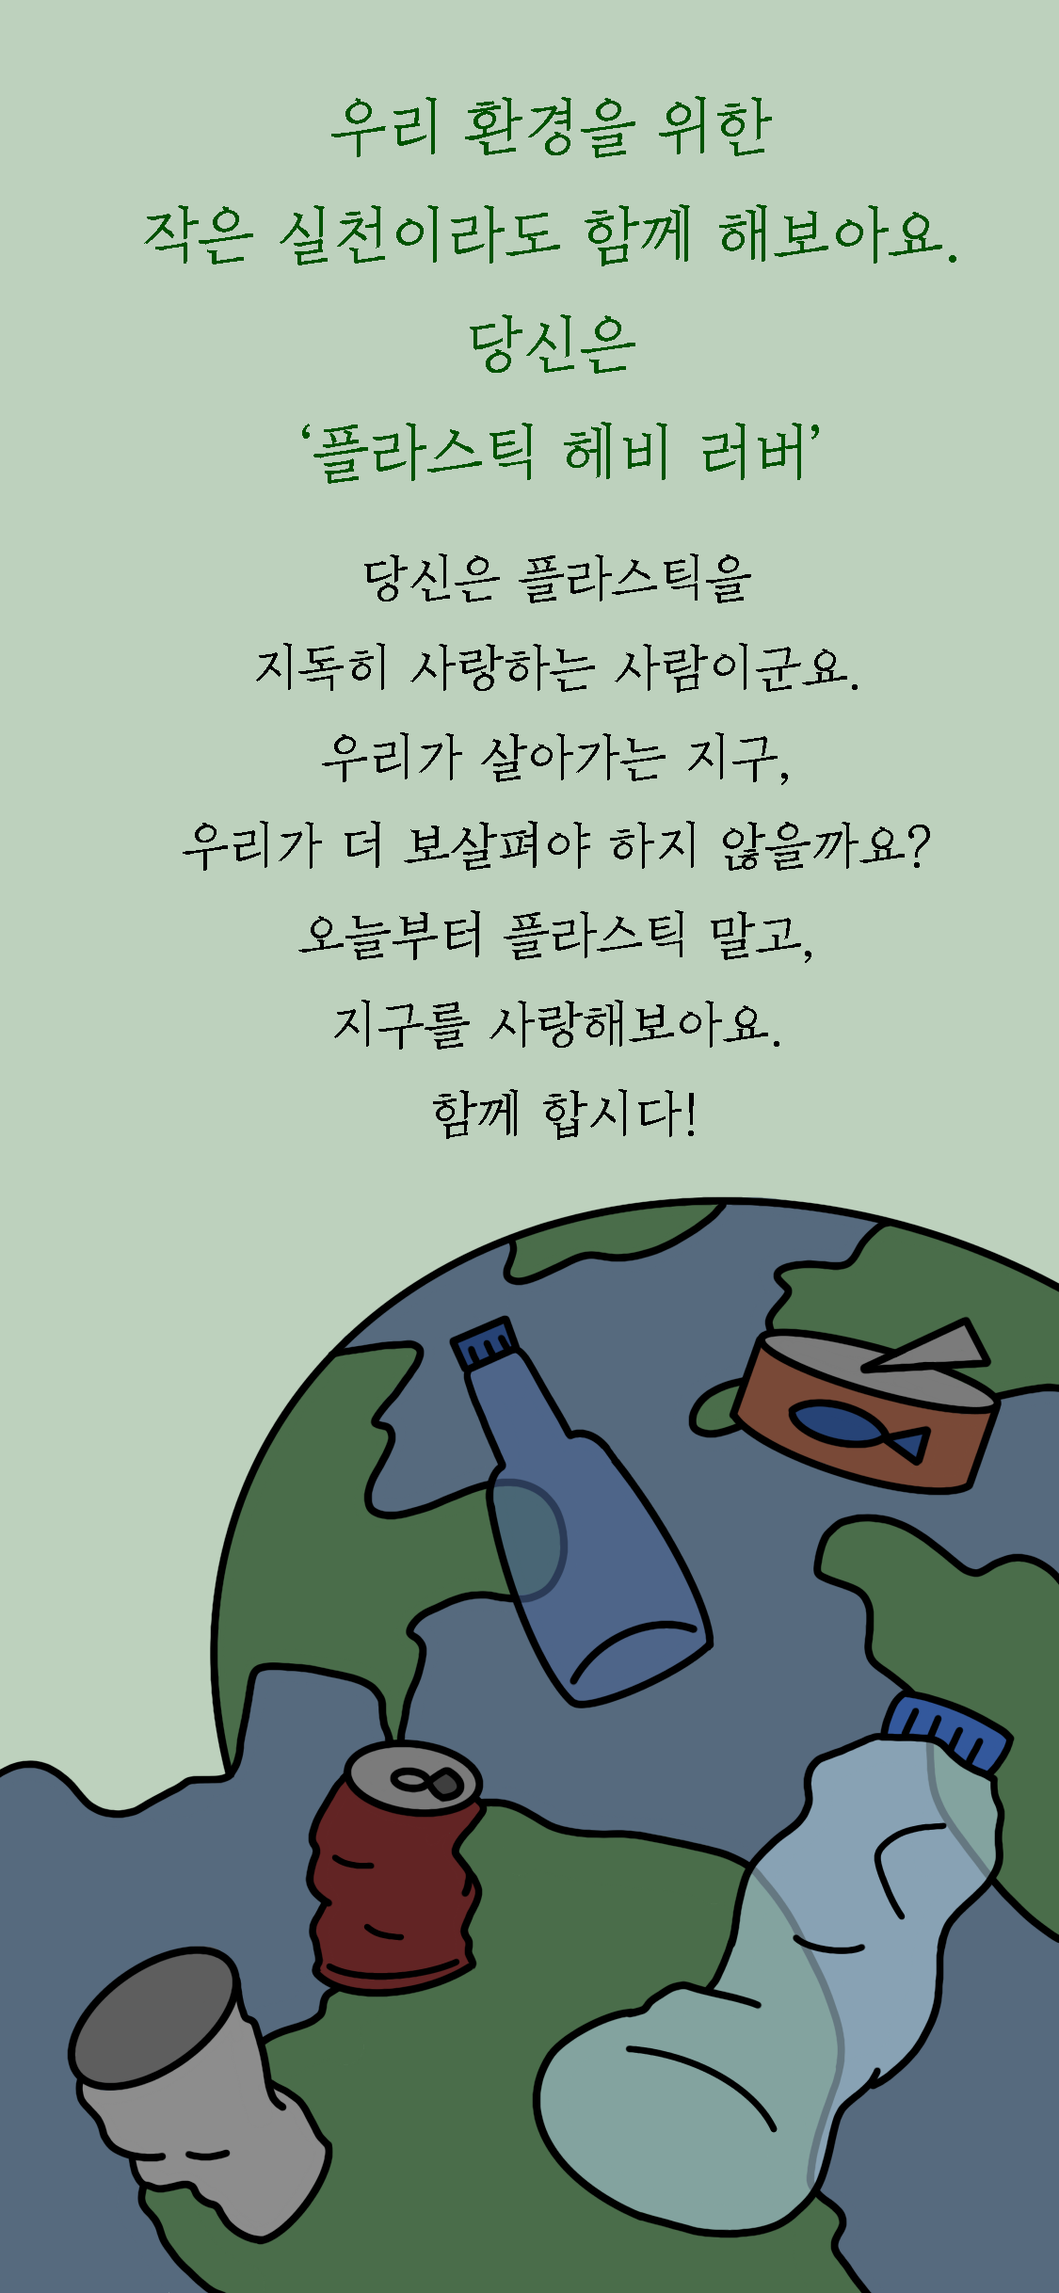
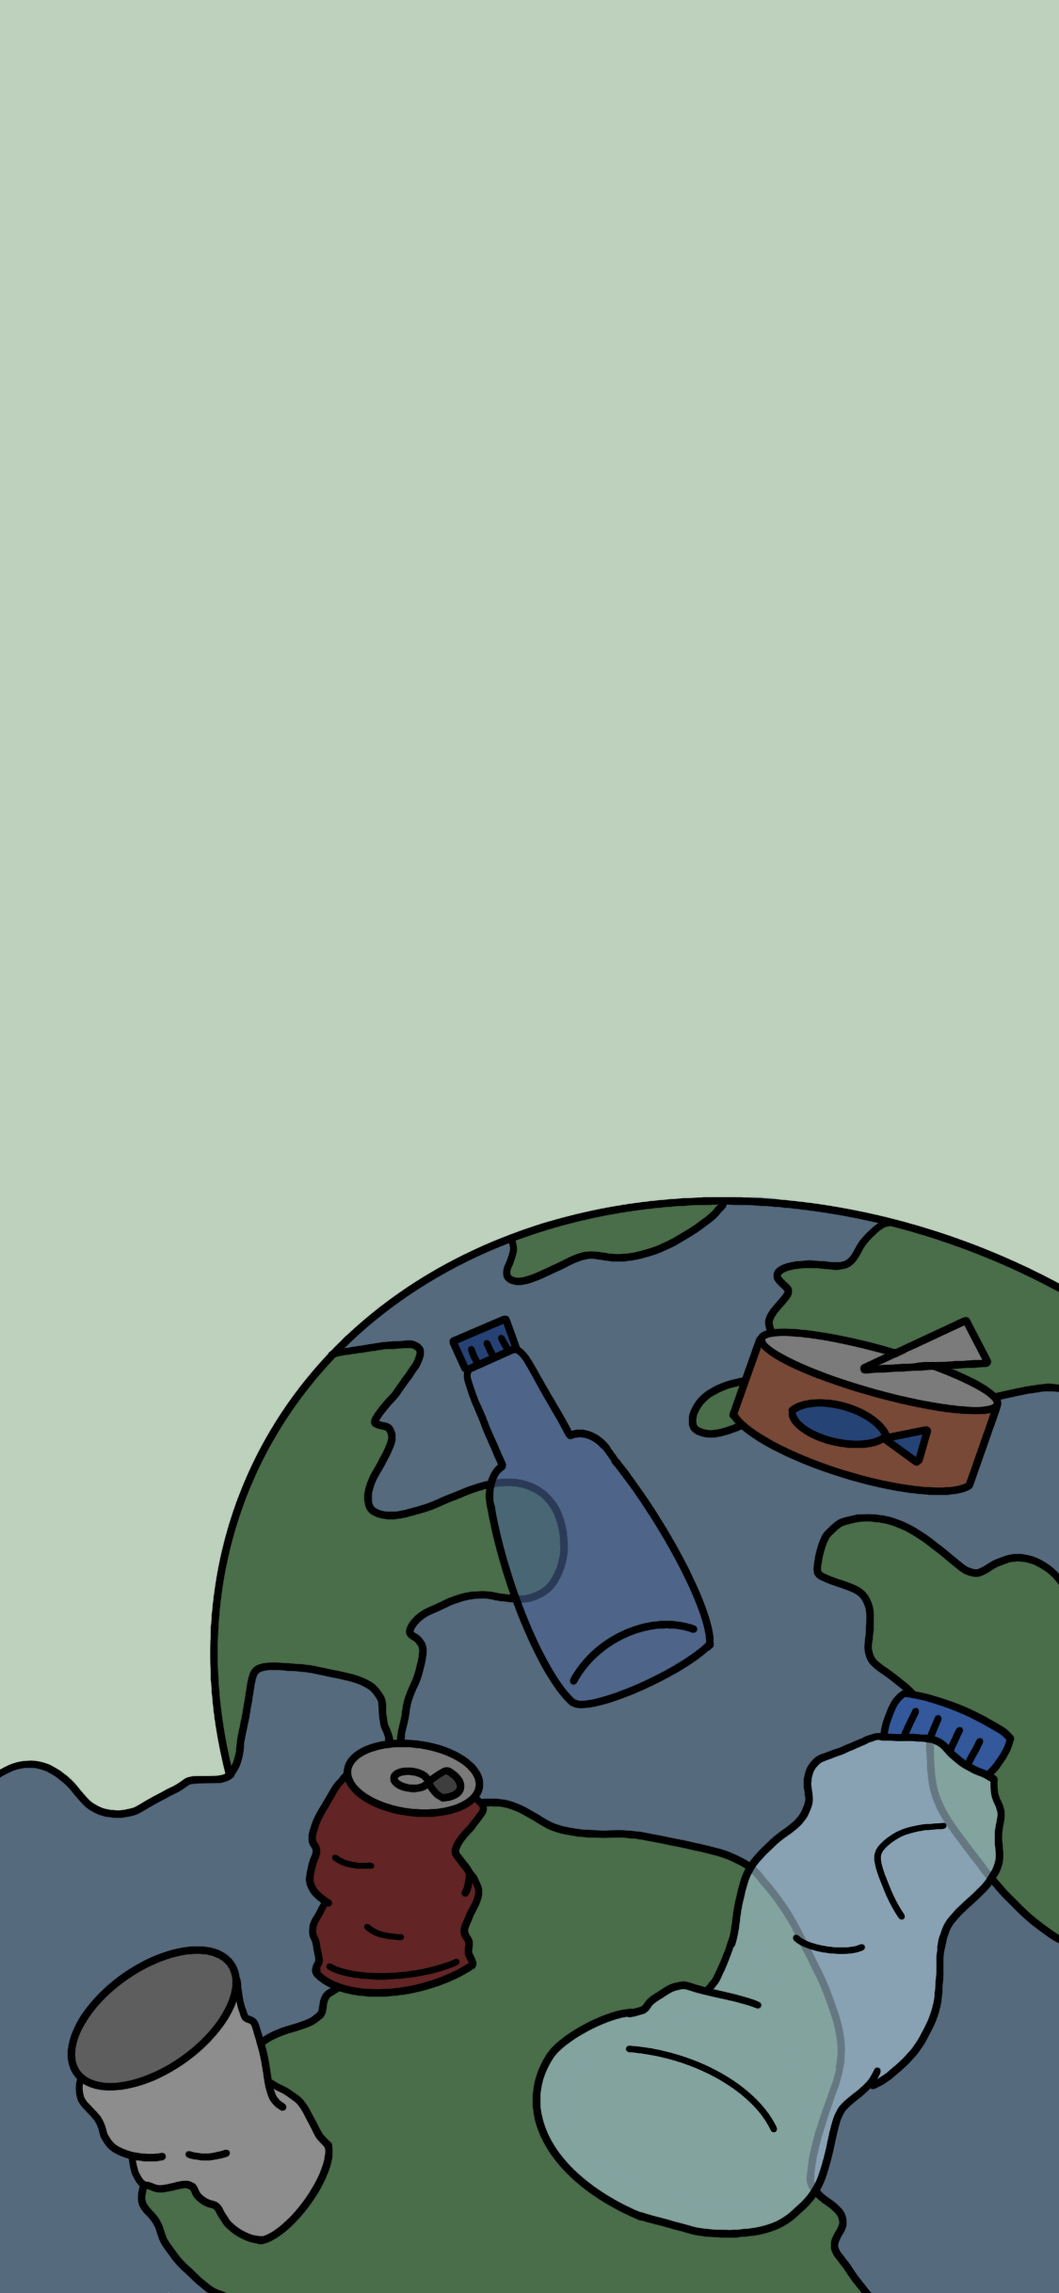
change img name

diff --git a/js/app.js b/js/app.js
@@ -126,46 +126,46 @@ function clickCalculator() {
 
 //결과
 function resultFirst(){
-    backGround.style.backgroundImage="url('./img/plasticheavylover.png')";
+    backGround.style.backgroundImage="url('./img/result1.png')";
     explanation.innerHTML = "우리 환경을 위한"+"<br>"+"작은 실천이라도 함께 해보아요."+"<br>"+"당신은 플라스틱 헤비 러버";
     detail.innerHTML = "<br>"+"당신은 플라스틱을 지독히 사랑하는 사람이군요. 아래의 환경 보호 tip을 함께 정독하고, 작은 것부터 실천해 나가요. 우리가 살아가는 지구, 우리가 더 보살펴야 하지 않을까요? 오늘부터 플라스틱 말고, 지구를 사랑해보아요."+"<br>"+"함께 합시다!";
     futherEx.innerHTML = "<br>"+"꼬르륵.. 배꼽시계가 점심 먹을 시간을 알려주네요. ⏰ 귀찮은 마음에 배달음식을 시킨 당신! 혹시 그거 아세요? 당신이 배달음식을 시켜 먹는 게 환경에 얼마나 악영향을 미치는지 말이에요. 배달음식으로 매일 830만 개 분량의 일회용 플라스틱 용기가 버려지고 있어요. 네? 배달음식용 플라스틱 용기는 대부분 재활용이 가능해서 괜찮지 않냐고요? 배달음식용 플라스틱 용기 대부분이 재활용 가능 자원인 건 맞아요. 하지만 실제로 재활용이 되는 건 40% 정도에 불과해요. 배달 용기를 제대로 세척해서 버리는 경우가 많지 않고 설령 세척을 하고 버렸다고 해도 배달 용기 특성상 국물 등이 제대로 지워지지 않기 때문이죠. 이렇게 오염된 배달 용기는 일반 쓰레기와 함께 소각되고 있어요. 재활용 가능 자원이라 하기 무색하게 말이죠. 이 문제를 해결하기 위한 실천 방법에는 무엇이 있을까요? 제가 몇 가지 알려드릴게요. 첫 번째 방법은 집밥 애용하기! 입니다. 배달 음식 대신 집밥으로 건강은 챙기고 일회용품 사용은 줄이자고요~ 하지만 간편하고 맛있는 배달음식을 포기하기 쉽지 않죠. 저도 엽기적인 그 떡볶이.. 너무 좋아해서 그 마음 충분히 이해해요. 그런 당신에게 ‘용기내챌린지’를 소개합니다! ‘용기내챌린지’는 류준열 배우의 시작으로 SNS상에서 유행하고 있는 챌린지인데요. ‘용기를 내서 용기를 내자’라는 중의적 표현으로, 일상생활에서 플라스틱 발생을 줄이기 위해 용기를 내서 개인 용기에 음식을 담아오는 행위를 말해요. 우리도 용기를 내서 배달음식 포장해보는 건 어떨까요?"+"<br>"+"<br>";
-    document.getElementById('download').setAttribute('href', './img/result1.png')
+    document.getElementById('download').setAttribute('href', './img/download1.png')
 }
 function resultSecond(){
-    backGround.style.backgroundImage="url('./img/plasticbestfriend.png')";
+    backGround.style.backgroundImage="url('./img/result2.png')";
     explanation.innerHTML = "환경을 생각해주세요!"+"<br>"+"당신은 플라스틱 베스트 프렌드";
     detail.innerHTML = "<br>"+"이런 이런, 지구가 울고 있어요! 당신은 플라스틱과 누구보다 끈끈한 우정을 자랑하고 있군요. 아래의 환경 보호 tip을 함께 정독하고, 작은 것부터 실천해 나가요. 당신의 작은 실천들이 모여 더 나은 환경을 만들 수 있답니다.";
     futherEx.innerHTML = "<br>"+"띵동! 택배 왔어요~ 세상에서 제일 설레는 소리는? 바로 택배 아저씨 목소리! 코로나 19로 집에 있는 시간이 많아진 요즘 온라인 쇼핑에 푸~욱 빠져있진 않나요? 클릭 몇 번만 하면 내 앞으로 물건을 갔다 주니 얼마나 편한지 몰라요. 게다가 속도는 로켓🚀처럼 빠르니 좋아하지 않을 수가 없네요. 그런데 여러분! 이토록 좋은 점만 가득해 보이는 택배가 사실은 환경오염의 주범이라는 거 알고 계셨나요? 생활폐기물 중 무려 40%가 포장 폐기물이라고 해요. 정말 어마어마하지 않나요? 심지어 포장 폐기물의 대부분은 불필요하게 발생하는 경우가 많은데요. 제품 손상 방지를 위한 쇼핑업체의 과대포장이 그 원인이라고 해요. 이 문제를 해결하려면 어떤 실천을 할 수 있을까요? 먼저 제대로 된 분리수거를 하는 것인데요. 테이프와 송장이 붙어있는 상자는 분리수거가 되지 않아요. 제대로 된 분리수거를 위해선 종이류가 아닌 비닐 테이프와 송장은 꼭 제거해주세요! 또 다른 방법으로는 친환경 포장재를 사용하는 쇼핑업체의 제품을 구매하는 겁니다. 재사용이 가능한 보냉백 ‘알비백’을 도입한 SSG닷컴의 경우 도입 이후 두 달 간 일회용 포장 용품 80만 개 이상을 절감했으며, 모든 포장재를 재활용이 가능한 소재(종이)로 바꾼 마켓컬리의 경우 1년 동안 플라스틱 4,831t을 절감했습니다. 온라인 쇼핑의 장점도 느리면서 환경도 보호할 수 있다니 정말 굿이네요! 굿굿굿~ 마지막 방법은 가장 확실히 포장 폐기물을 줄일 수 있는데요. 바로 불필요한 온라인 쇼핑 줄이기! 입니다. 시중에서 쉽게 구매할 수 있는 물품은 오프라인으로 구매하여 포장 폐기물의 발생을 방지하는 겁니다. 온라인 쇼핑보다는 귀찮겠지만 가장 확실환 방법이니 많은 분이 동참해주셨으면 좋겠네요!"+"<br>"+"<br>";
-    document.getElementById('download').setAttribute('href', './img/result2.png')
+    document.getElementById('download').setAttribute('href', './img/download2.png')
 }
 function resultThird(){
-    backGround.style.backgroundImage="url('./img/plasticconsumer.png')";
+    backGround.style.backgroundImage="url('./img/result3.png')";
     explanation.innerHTML = "편리한 것도 좋지만,"+"<br>"+"조금 더 노력해볼까요?" +"<br>"+"당신은 플라스틱 소비러";
     detail.innerHTML = "<br>"+"아직은 환경보단 일상 속 편리함이 더 좋으시군요! 그래도 괜찮아요. 저는 당신 속에서 가능성을 보았답니다. 아래의 환경 보호 tip을 함께 정독하고, 실천하다 보면 플라스틱 소비를 줄이고, 친환경적인 라이프 스타일을 가질 수 있을 거에요!";
     futherEx.innerHTML = "<br>"+"하루 종일 집에만 있었더니 온몸이 쑤시고 답답해요. 우리 콧구멍에 신선한 바람도 쐐줄 겸 집 앞 카페에서 아아 어때요? 언제나 그랬듯이 “아이스 아메리카노 한 잔 테이크 아웃 잔에 담아주세요.” 라 말하는 당신! 카페에서 사용하는 일회용 커피컵은 대부분 재활용이 되지 않는다는 것 알고 계시나요? 바로 투명 플라스틱 컵에 브랜드 로고가 컬러로 인쇄되어 있는 경우가 많기 때문이에요. 이를 재활용하려면 인쇄된 로고의 색상을 빼는 별도의 작업을 거쳐야 하는데요. 그 과정이 복잡하고 비용도 많이 들어 일회용 커피컵 대부분이 재활용되지 않고 일반 쓰레기로 버려진다고 해요. 그 수가 257억 개라고 하니 엄청나죠? 그렇기에 전 텀블러를 사용하는 걸 추천해요! 코로나가 종식되면 매장에서 느긋하게 마시는 것도 좋겠네요~"+"<br>"+"<br>";
-    document.getElementById('download').setAttribute('href', './img/result3.png')
+    document.getElementById('download').setAttribute('href', './img/download3.png')
 }
 function resultFourth(){
-    backGround.style.backgroundImage="url('./img/treeprotecter.png')";
+    backGround.style.backgroundImage="url('./img/result4.png')";
     explanation.innerHTML = "당신은 일상 속에서 틈틈이"+"<br>"+"환경을 신경 쓰는군요." +"<br>"+"당신은 나무 지킴이!";
     detail.innerHTML = "<br>"+"일상 속에서 조금이나마 환경을 생각하려는 움직임이 보여요. 조금의 귀찮음만 극복하면 초록빛 지구를 함께 만들어갈 수 있을 것 같아요! 함께 해주실 거죠?";
     futherEx.innerHTML = "<br>"+"저기 돈까스 좋아하세요? 겉은 바삭하고 속은 촉촉하니 그저 JMT.. 돈까스 한 입이면 바로 극락행..! 그런데 그거 알아요? 우리가 돈까스 먹고 극락 갈 동안 지구는 나락으로 떨어지고 있다는 사실이요. 육류를 생산하기 위해 가축을 기르는 과정에서 매년 배출되는 온실가스는 지구 전체 온실가스 배출량의 15%를 차지해요. 소와 같은 반추동물이 내뿜는 메탄가스뿐만 아니라 가축을 키우고 사료를 생산하기 위해 산림을 파괴하는 과정에서 방출되는 이산화탄소 역시 온실가스의 주범이죠. 이 온실가스는 지구온난화의 원인이 되고 결국엔 기후변화까지 초래해요. 그리고 그 피해는 고스란히 우리 앞으로 돌아오죠. 육식을 줄여야 하는 이유를 이젠 알겠네요. 그래서 그런데 우리 오늘은 산뜻하게 샐러드 어때요?"+"<br>"+"<br>"+"오늘만큼은 내가 요리사! 라며 두 팔을 걷어붙이는데.. 헉! 집에 재료가 없네요. 그 전에 장을 봐야겠어요! 뭐라고요? 걸어가기 너무 귀찮은데 시장까지 자동차를 타자고요? 그런데요. 그거 아세요? 당신이 편하자고 이용하는 자동차에서 배출되는 배기가스는 지구온난화와 대기오염의 원인이 된다는 사실이요. 그렇기에 전 차 키 대신 교통카드를 챙길 것을 추천해요. 가까운 거리라면 걷거나 자전거를 이용하는 것도 좋겠네요! 심지어 운동도 되니 건강까지 챙길 수 있겠어요!"+"<br>"+"<br>"+"집에서 요리를 하는 당신..! 너무 멋져요.🤩 오.. 그런데 양이 너무 많은 거 같은데요..? 모자란 것보다 낫다며 양을 많이 하는 당신. 양을 많이 하는 게 정말 모자란 것보다 나을까요? 1년에 버려지는 음식물은 410만 톤이라고 해요. 돈으로 환산하면 15조 원이라고 하죠. 경제적 손실도 엄청난 문제지만 진짜 문제는 따로 있어요. 음식물을 자연적으로 부패하도록 방치하게 되면 그 과정에서 혐기성 박테리아의 번식으로 인해 메탄가스가 발생해요. 이를 방지하기 위해 소각 및 매립의 방법으로 음식물 쓰레기를 처리하는 경우가 많은데요. 이 방법 역시 환경 오염을 유발해 문제가 아주 많답니다. 소각을 할 경우 오염 물질인 다이옥신이 발생하고, 매립을 할 경우 쓰레기 침출수의 유출로 인해 수질오염과 토양오염을 유발해 문제가 된답니다. 아직도 양을 많이 하는 게 모자란 것보다 나은 것 같나요? 우리 모두 먹을 수 있는 만큼만 만들어요!"+"<br>"+"<br>";
-    document.getElementById('download').setAttribute('href', './img/result4.png')
+    document.getElementById('download').setAttribute('href', './img/download4.png')
 }
 function resultFifth(){
-    backGround.style.backgroundImage = "url('./img/forestprotecter.png')";
+    backGround.style.backgroundImage = "url('./img/result5.png')";
     explanation.innerHTML = "잘 하고 있어요!" +"<br>"+"조금 더 노력한다면 지구를 지킬 수 있는 당신은 숲 지킴이!";
     detail.innerHTML = "<br>"+"당신은 지구지킴이 이전 단계인 숲 지킴이 단계에 와 있어요. 숲을 지켜주는 당신 같은 존재가 있어 다행이네요. 조금 더 나아가면 지구 지킴이가 될 수 있겠어요!";
     futherEx.innerHTML = "<br>"+"밖에 나갔다 왔더니 온몸이 찝찝해요. 어서 빨리 개운하게 씻고 싶다며 화장실에 들어간 당신! 도대체 언제쯤 나와요..? 화장실에 들어간 지 15분이 지났는데 도통 나올 기미가 안 보여요. 당신이 샤워 시간을 5분만 줄이면 54ℓ의 물을 줄일 수 있어요. 그리고 이는 1년간 무려 19,710ℓ의 물을 절약할 수 있단 뜻이죠. 그뿐만 아니라, 수돗물을 만들 때 발생하는 이산화탄소 역시 줄일 수 있다고 해요. 우리 앞으로 샤워 시간을 줄이는 건 어때요? 그리고 적은 물줄기가 세게 나오는 절수형 샤워기를 사용할 경우 1분당 7ℓ 정도만 사용해 상당량의 물을 절약할 수 있는데요. 값도 저렴하고 설치도 간단해 직접 교체할 수 있다고 하니 절수형 샤워기를 사용하는 것도 방법이 되겠네요!"+"<br>"+"<br>"+"이제 더러워진 옷을 빨 차례에요. 세제를 넣고 세탁기 동작 버튼을 누르는 당신! 뭐가 하나 빠진 것 같아요. 왜 물 온도는 설정하지 않는 거죠? 당신은 냉수 세탁이 에너지 절약에 도움이 된다는 거 알고 계시나요? 가정에서 많이 쓰이는 드럼세탁기의 경우 기본적으로 온도가 40도로 설정되어 있는데요. 이를 그대로 두고 세탁한 경우와 온도를 내리고 세탁한 경우 세탁력은 유사하지만, 에너지 소비에 있어선 많은 차이가 있다고 해요. 온수 세탁이 냉수 세탁보다 연간 28배 더 많은 전력을 소비하거든요. 그러니 우리 설정온도를 낮추고 냉수 세탁 하는 건 어때요? 전력 사용을 줄어 환경도 보호하고 돈도 절약할 수 있으니 이야말로 누이 좋고 매부 좋은 일 아닌가요?"+"<br>"+"<br>";
-    document.getElementById('download').setAttribute('href', './img/result5.png')
+    document.getElementById('download').setAttribute('href', './img/download5.png')
 }
 function resultSixth(){
-    backGround.style.backgroundImage = "url('./img/earthprotecter.png')";
+    backGround.style.backgroundImage = "url('./img/result6.png')";
     explanation.innerHTML = "당신 덕분에 지구가 숨 쉬네요!" +"<br>"+"당신은 멋진 지구 지킴이!";
     detail.innerHTML = "당신은 일상 속에서도 환경을 지키기 위한 노력을 꾸준히 하고 계시는 군요. 당신과 같이 환경을 생각하는 사람이 많아진다면, 더 살기 좋은 지구가 되지 않을까요?";
     futherEx.innerHTML = "<br>"+"당신이 유튜브 영상을 시청하는 것, 메일을 지우지 않고 쌓아두는 것, 핸드폰을 사용하는 것 모두 환경에 악영향을 미친다는 거 알고 계시나요? 온라인 및 모바일에서 발생하는 모든 일에는 데이터가 사용돼요. 그렇기에 모든 IT 기업은 데이터를 저장하고 전송하기 위한 데이터 센터를 운영하고 있죠. 그린피스에 의하면 2020년 세계 데이터 센터 에너지 사용량은 1조 9,370억 kWh라고 해요. 이는 우리나라 1년 전기 사용량의 4배에 달하는 양이기도 하죠. 사실 데이터를 저장하고 전송하는 것에도 전력이 소비되지만, 이보다 더 많은 전력이 냉각장치를 가동하는데 쓰인답니다. 데이터 센터는 24시간 365일 쉴 틈 없이 많은 양의 데이터를 취급하기에 엄청난 열을 내뿜는데요. 이를 식히기 위해선 냉각장치가 필요하기 때문이죠. 이 문제를 해결하기 위해 기업은 온도가 낮은 곳에 데이터 센터를 지어 자연 냉방의 도움을 받아 냉각장치에 소비되는 전력량을 낮추는 노력을 하고 있어요. 하지만 개인의 노력 없이 기업의 노력만으론 이 문제를 해결할 순 없어요. 그러니 우리도 노력을 해야겠죠? 영상을 저화질로 보는 것, 메일함을 정리하는 것, 핸드폰 사용 시간을 줄이는 것 모두 도움이 된다고 하니 한 번 실천하는 건 어떨까요?"+"<br>"+"<br>";
-    document.getElementById('download').setAttribute('href', './img/result6.png')
+    document.getElementById('download').setAttribute('href', './img/download6.png')
 }
 
 
@@ -205,13 +205,13 @@ for (let i = 0; i < optionBtn.length; i++) {
             clickCalculator();
         }else {
             if(e.target.innerHTML === "한국인은 역시 배달이지…"+"<br>"+"시켜먹는다.") {
+                document.getElementById('four').style.backgroundImage="url('./img/back4-1.gif')"
                 changeSection("어떤 걸 시켜먹을까요?", "당신의 메뉴는?", "식도에 기름칠 좀 해볼까?"+"<br>"+"돈까스", "옵션2", "오늘은 산뜻하게!"+"<br>"+"볼 샐러드")
-                document.getElementById('four').style.backgroundImage="url('./img/salad.gif')"
                 optionBtn[1].classList.add("hide");
             } else if (e.target.innerHTML === "마트에 가야지!"+"<br>"+"장을 보러간다. ") {
                 changeSection("장을 보기 위해 집을 나섰어요.", "마트까지", "부릉부릉~"+"<br>"+"자가를 이용한다.", "대중교통을 이용한다.", "산책도 하고 좋지 뭐!"+"<br>"+"도보를 이용한다.")
             } else if (e.target.innerHTML === "집에 있는 재료로 요리 할 수 있지 않을까?"+"<br>"+"집에 있는 걸로 해먹는다.") {
-                document.getElementById('four').style.backgroundImage="url('./img/cook.gif')";
+                document.getElementById('four').style.backgroundImage="url('./img/back4-3.gif')";
                 changeSection("집에서 요리를 하는 당신.", "양은 얼마나 할까요?", "자고로 부족한 것 보다는"+"<br>"+"많은 게 낫지. 많이 한다!", "옵션2", "음식물 쓰레기"+"<br>"+"버리기 귀찮아.적게 한다.")
                 optionBtn[1].classList.add("hide");
 

diff --git a/style.css b/style.css
@@ -122,34 +122,34 @@ ol {
   background-image: url(./img/basic.png);
 }
 #one {
-  background-image: url(./img/thermo.gif);
+  background-image: url(./img/back1.gif);
 }
 #two {
-  background-image: url(./img/box.gif);
+  background-image: url(./img/back2.gif);
 }
 #three {
-  background-image: url(./img/athome.gif);
+  background-image: url(./img/back3.gif);
 }
 #four {
   background-image: url(./img/basic.png);
 }
 #five {
-  background-image: url(./img/video.gif);
+  background-image: url(./img/back5.gif);
 }
 #six {
-  background-image: url(./img/road.gif);
+  background-image: url(./img/back6.gif);
 }
 #seven {
-  background-image: url(./img/brushing.gif);
+  background-image: url(./img/back7.gif);
 }
 #eight {
-  background-image: url(./img/washing.gif);
+  background-image: url(./img/back8.gif);
 }
 #nine {
-  background-image: url(./img/mail.gif);
+  background-image: url(./img/back9.gif);
 }
 #ten {
-  background-image: url(./img/screentime.gif);
+  background-image: url(./img/back10.gif);
 }
 #eleven {
   background-image: url(./img/basic.png);
